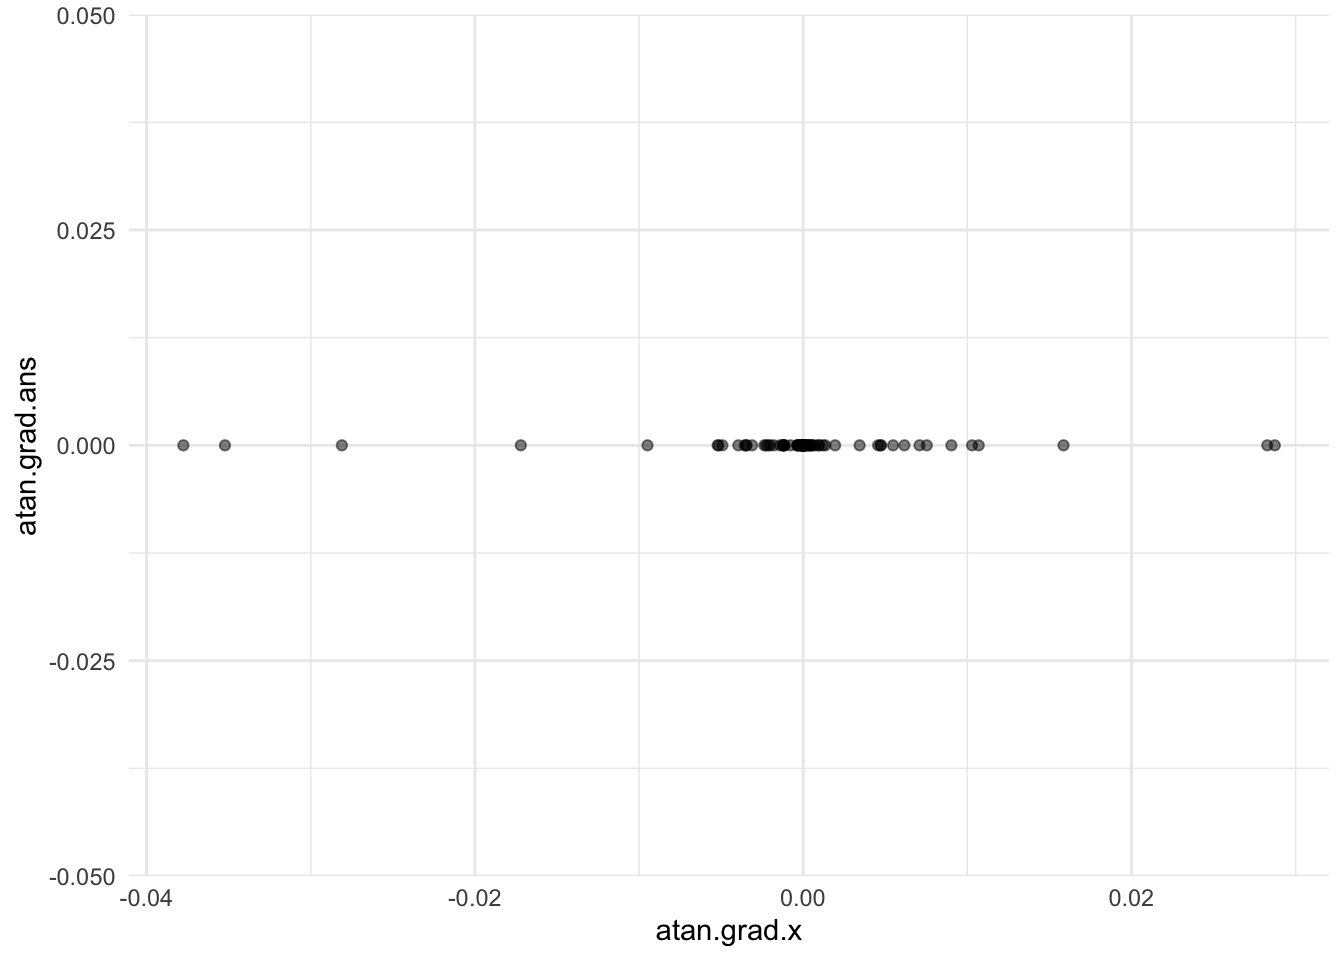
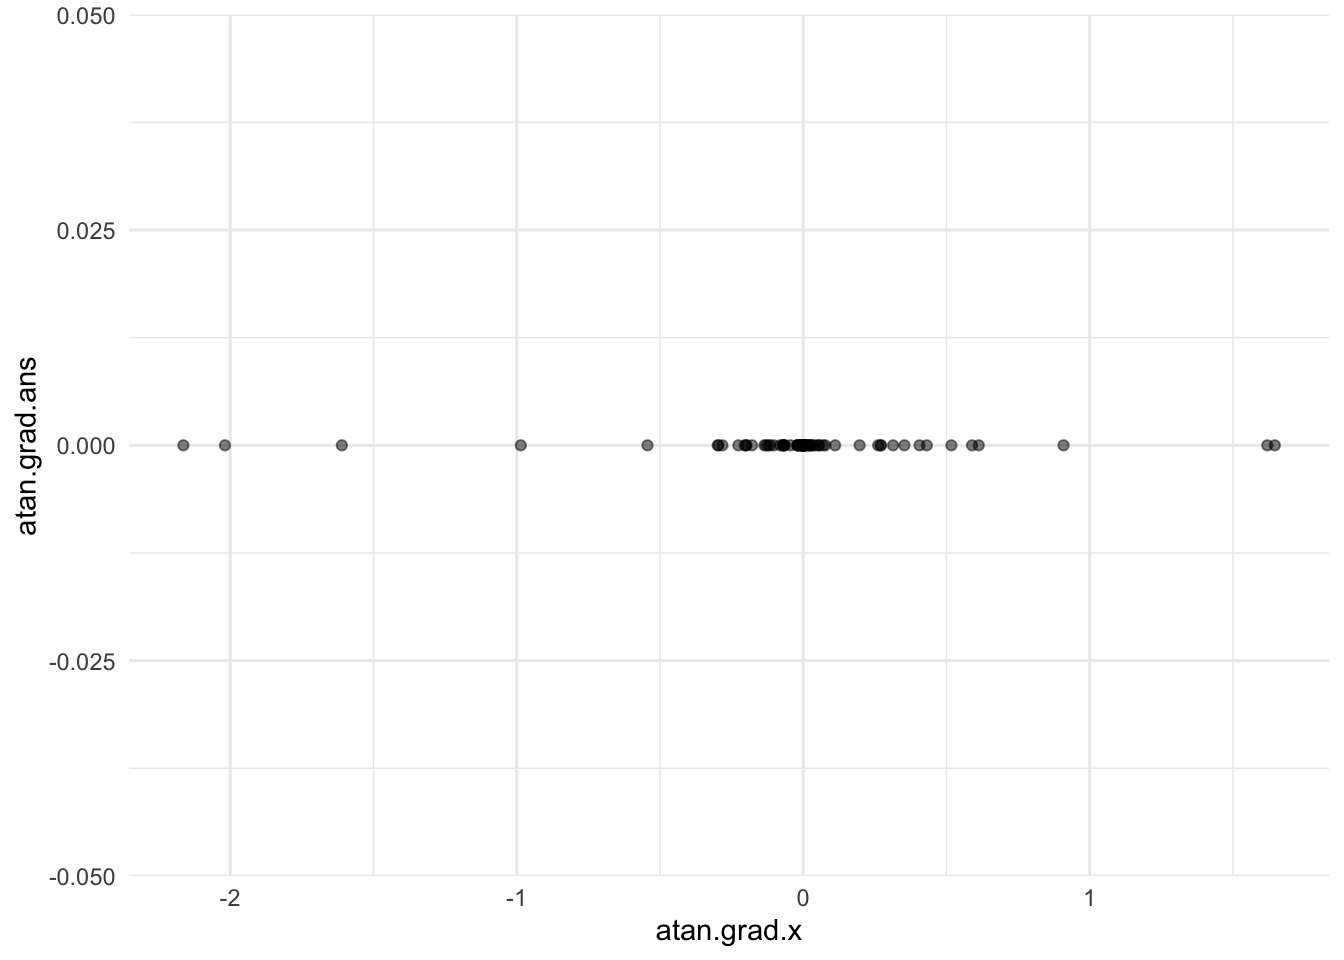
changed some more atan related things

Changed region(s): [[0.5938, 0.9062, 0.625, 0.9375], [0.3438, 0.9062, 0.375, 0.9375], [0.0938, 0.9062, 0.125, 0.9375]]

diff --git a/analysis.html b/analysis.html
@@ -536,25 +536,25 @@ Experimenting with <code>numDeriv</code>
 <div class="cell-output cell-output-stdout">
 <pre><code>[1] 0.005399378</code></pre>
 </div>
-<div class="sourceCode cell-code" id="cb33"><pre class="sourceCode r code-with-copy"><code class="sourceCode r"><span id="cb33-1"><a href="#cb33-1" aria-hidden="true" tabindex="-1"></a><span class="fu">atan</span>(numDeriv<span class="sc">::</span><span class="fu">grad</span>(dsgt, <span class="dv">1</span>, <span class="at">mu =</span> <span class="fl">1.7</span>, <span class="at">sigma =</span> <span class="fl">1.4</span>, <span class="at">lambda =</span> <span class="sc">-</span><span class="fl">0.5</span>, <span class="at">p =</span> <span class="fl">3.5</span>, <span class="at">q =</span> <span class="fl">7.5</span>, <span class="at">mean.cent=</span>F))</span></code><button title="Copy to Clipboard" class="code-copy-button"><i class="bi"></i></button></pre></div>
+<div class="sourceCode cell-code" id="cb33"><pre class="sourceCode r code-with-copy"><code class="sourceCode r"><span id="cb33-1"><a href="#cb33-1" aria-hidden="true" tabindex="-1"></a><span class="fu">atan</span>(numDeriv<span class="sc">::</span><span class="fu">grad</span>(dsgt, <span class="dv">1</span>, <span class="at">mu =</span> <span class="fl">1.7</span>, <span class="at">sigma =</span> <span class="fl">1.4</span>, <span class="at">lambda =</span> <span class="sc">-</span><span class="fl">0.5</span>, <span class="at">p =</span> <span class="fl">3.5</span>, <span class="at">q =</span> <span class="fl">7.5</span>, <span class="at">mean.cent=</span>F)) <span class="sc">*</span> <span class="dv">180</span> <span class="sc">/</span> pi</span></code><button title="Copy to Clipboard" class="code-copy-button"><i class="bi"></i></button></pre></div>
 <div class="cell-output cell-output-stdout">
-<pre><code>[1] 0.005399325</code></pre>
+<pre><code>[1] 0.3093586</code></pre>
 </div>
 <div class="sourceCode cell-code" id="cb35"><pre class="sourceCode r code-with-copy"><code class="sourceCode r"><span id="cb35-1"><a href="#cb35-1" aria-hidden="true" tabindex="-1"></a>numDeriv<span class="sc">::</span><span class="fu">grad</span>(dsgt, <span class="dv">0</span>, <span class="at">mu =</span> <span class="fl">1.7</span>, <span class="at">sigma =</span> <span class="fl">1.4</span>, <span class="at">lambda =</span> <span class="sc">-</span><span class="fl">0.5</span>, <span class="at">p =</span> <span class="fl">3.5</span>, <span class="at">q =</span> <span class="fl">7.5</span>, <span class="at">mean.cent=</span>F)</span></code><button title="Copy to Clipboard" class="code-copy-button"><i class="bi"></i></button></pre></div>
 <div class="cell-output cell-output-stdout">
 <pre><code>[1] 0.04467183</code></pre>
 </div>
-<div class="sourceCode cell-code" id="cb37"><pre class="sourceCode r code-with-copy"><code class="sourceCode r"><span id="cb37-1"><a href="#cb37-1" aria-hidden="true" tabindex="-1"></a><span class="fu">atan</span>(numDeriv<span class="sc">::</span><span class="fu">grad</span>(dsgt, <span class="dv">0</span>, <span class="at">mu =</span> <span class="fl">1.7</span>, <span class="at">sigma =</span> <span class="fl">1.4</span>, <span class="at">lambda =</span> <span class="sc">-</span><span class="fl">0.5</span>, <span class="at">p =</span> <span class="fl">3.5</span>, <span class="at">q =</span> <span class="fl">7.5</span>, <span class="at">mean.cent=</span>F))</span></code><button title="Copy to Clipboard" class="code-copy-button"><i class="bi"></i></button></pre></div>
+<div class="sourceCode cell-code" id="cb37"><pre class="sourceCode r code-with-copy"><code class="sourceCode r"><span id="cb37-1"><a href="#cb37-1" aria-hidden="true" tabindex="-1"></a><span class="fu">atan</span>(numDeriv<span class="sc">::</span><span class="fu">grad</span>(dsgt, <span class="dv">0</span>, <span class="at">mu =</span> <span class="fl">1.7</span>, <span class="at">sigma =</span> <span class="fl">1.4</span>, <span class="at">lambda =</span> <span class="sc">-</span><span class="fl">0.5</span>, <span class="at">p =</span> <span class="fl">3.5</span>, <span class="at">q =</span> <span class="fl">7.5</span>, <span class="at">mean.cent=</span>F)) <span class="sc">*</span> <span class="dv">180</span> <span class="sc">/</span> pi</span></code><button title="Copy to Clipboard" class="code-copy-button"><i class="bi"></i></button></pre></div>
 <div class="cell-output cell-output-stdout">
-<pre><code>[1] 0.04464215</code></pre>
+<pre><code>[1] 2.557807</code></pre>
 </div>
 <div class="sourceCode cell-code" id="cb39"><pre class="sourceCode r code-with-copy"><code class="sourceCode r"><span id="cb39-1"><a href="#cb39-1" aria-hidden="true" tabindex="-1"></a>numDeriv<span class="sc">::</span><span class="fu">grad</span>(dsgt, <span class="sc">-</span><span class="dv">1</span>, <span class="at">mu =</span> <span class="fl">1.7</span>, <span class="at">sigma =</span> <span class="fl">1.4</span>, <span class="at">lambda =</span> <span class="sc">-</span><span class="fl">0.5</span>, <span class="at">p =</span> <span class="fl">3.5</span>, <span class="at">q =</span> <span class="fl">7.5</span>, <span class="at">mean.cent=</span>F)</span></code><button title="Copy to Clipboard" class="code-copy-button"><i class="bi"></i></button></pre></div>
 <div class="cell-output cell-output-stdout">
 <pre><code>[1] 0.09215372</code></pre>
 </div>
-<div class="sourceCode cell-code" id="cb41"><pre class="sourceCode r code-with-copy"><code class="sourceCode r"><span id="cb41-1"><a href="#cb41-1" aria-hidden="true" tabindex="-1"></a><span class="fu">atan</span>(numDeriv<span class="sc">::</span><span class="fu">grad</span>(dsgt, <span class="sc">-</span><span class="dv">1</span>, <span class="at">mu =</span> <span class="fl">1.7</span>, <span class="at">sigma =</span> <span class="fl">1.4</span>, <span class="at">lambda =</span> <span class="sc">-</span><span class="fl">0.5</span>, <span class="at">p =</span> <span class="fl">3.5</span>, <span class="at">q =</span> <span class="fl">7.5</span>, <span class="at">mean.cent=</span>F))</span></code><button title="Copy to Clipboard" class="code-copy-button"><i class="bi"></i></button></pre></div>
+<div class="sourceCode cell-code" id="cb41"><pre class="sourceCode r code-with-copy"><code class="sourceCode r"><span id="cb41-1"><a href="#cb41-1" aria-hidden="true" tabindex="-1"></a><span class="fu">atan</span>(numDeriv<span class="sc">::</span><span class="fu">grad</span>(dsgt, <span class="sc">-</span><span class="dv">1</span>, <span class="at">mu =</span> <span class="fl">1.7</span>, <span class="at">sigma =</span> <span class="fl">1.4</span>, <span class="at">lambda =</span> <span class="sc">-</span><span class="fl">0.5</span>, <span class="at">p =</span> <span class="fl">3.5</span>, <span class="at">q =</span> <span class="fl">7.5</span>, <span class="at">mean.cent=</span>F)) <span class="sc">*</span> <span class="dv">180</span> <span class="sc">/</span> pi</span></code><button title="Copy to Clipboard" class="code-copy-button"><i class="bi"></i></button></pre></div>
 <div class="cell-output cell-output-stdout">
-<pre><code>[1] 0.09189418</code></pre>
+<pre><code>[1] 5.265148</code></pre>
 </div>
 </div>
 </div>
@@ -632,8 +632,8 @@ Experimenting with <code>numDeriv</code>
 <details class="code-fold">
 <summary>Code</summary>
 <div class="sourceCode cell-code" id="cb47"><pre class="sourceCode r code-with-copy"><code class="sourceCode r"><span id="cb47-1"><a href="#cb47-1" aria-hidden="true" tabindex="-1"></a>task2_df <span class="sc">%&gt;%</span> </span>
-<span id="cb47-2"><a href="#cb47-2" aria-hidden="true" tabindex="-1"></a>  <span class="fu">mutate</span>(<span class="at">atan.grad.x =</span> <span class="fu">atan</span>(grad.x), </span>
-<span id="cb47-3"><a href="#cb47-3" aria-hidden="true" tabindex="-1"></a>         <span class="at">atan.grad.ans =</span> <span class="fu">atan</span>(<span class="dv">0</span>)) <span class="sc">%&gt;%</span> </span>
+<span id="cb47-2"><a href="#cb47-2" aria-hidden="true" tabindex="-1"></a>  <span class="fu">mutate</span>(<span class="at">atan.grad.x =</span> <span class="fu">atan</span>(grad.x) <span class="sc">*</span> <span class="dv">180</span> <span class="sc">/</span> pi, </span>
+<span id="cb47-3"><a href="#cb47-3" aria-hidden="true" tabindex="-1"></a>         <span class="at">atan.grad.ans =</span> <span class="dv">0</span>) <span class="sc">%&gt;%</span> </span>
 <span id="cb47-4"><a href="#cb47-4" aria-hidden="true" tabindex="-1"></a>  <span class="fu">ggplot</span>(<span class="fu">aes</span>(<span class="at">x =</span> atan.grad.x, <span class="at">y =</span> atan.grad.ans)) <span class="sc">+</span> </span>
 <span id="cb47-5"><a href="#cb47-5" aria-hidden="true" tabindex="-1"></a>  <span class="fu">geom_point</span>(<span class="at">alpha =</span> <span class="fl">0.5</span>)</span></code><button title="Copy to Clipboard" class="code-copy-button"><i class="bi"></i></button></pre></div>
 </details>
